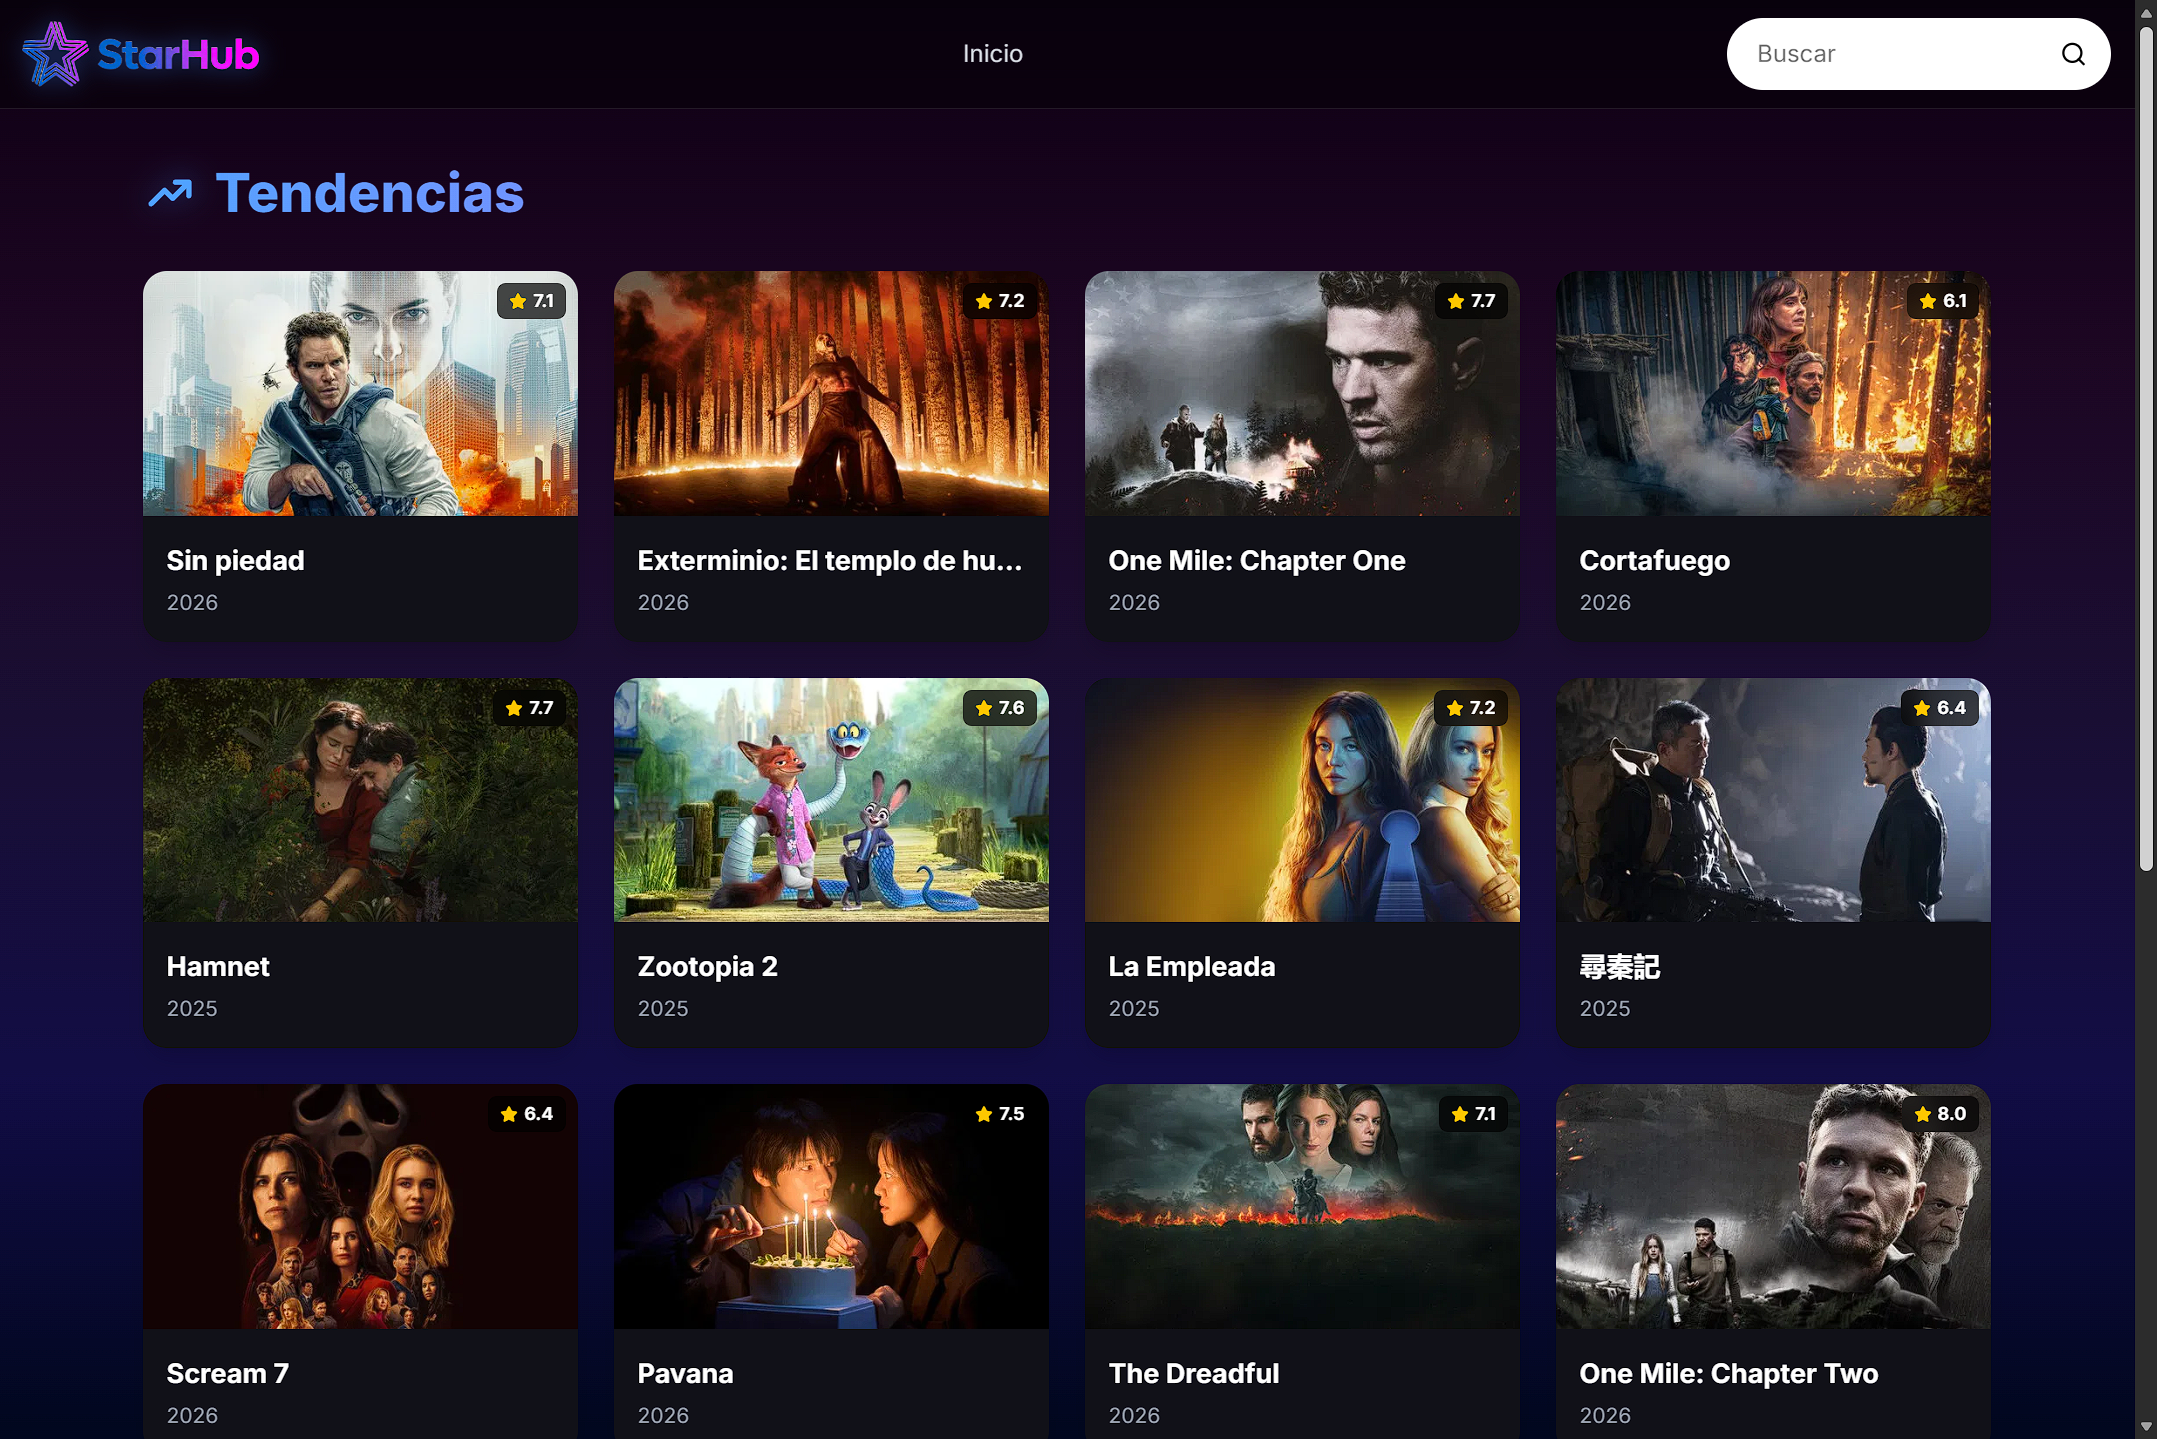
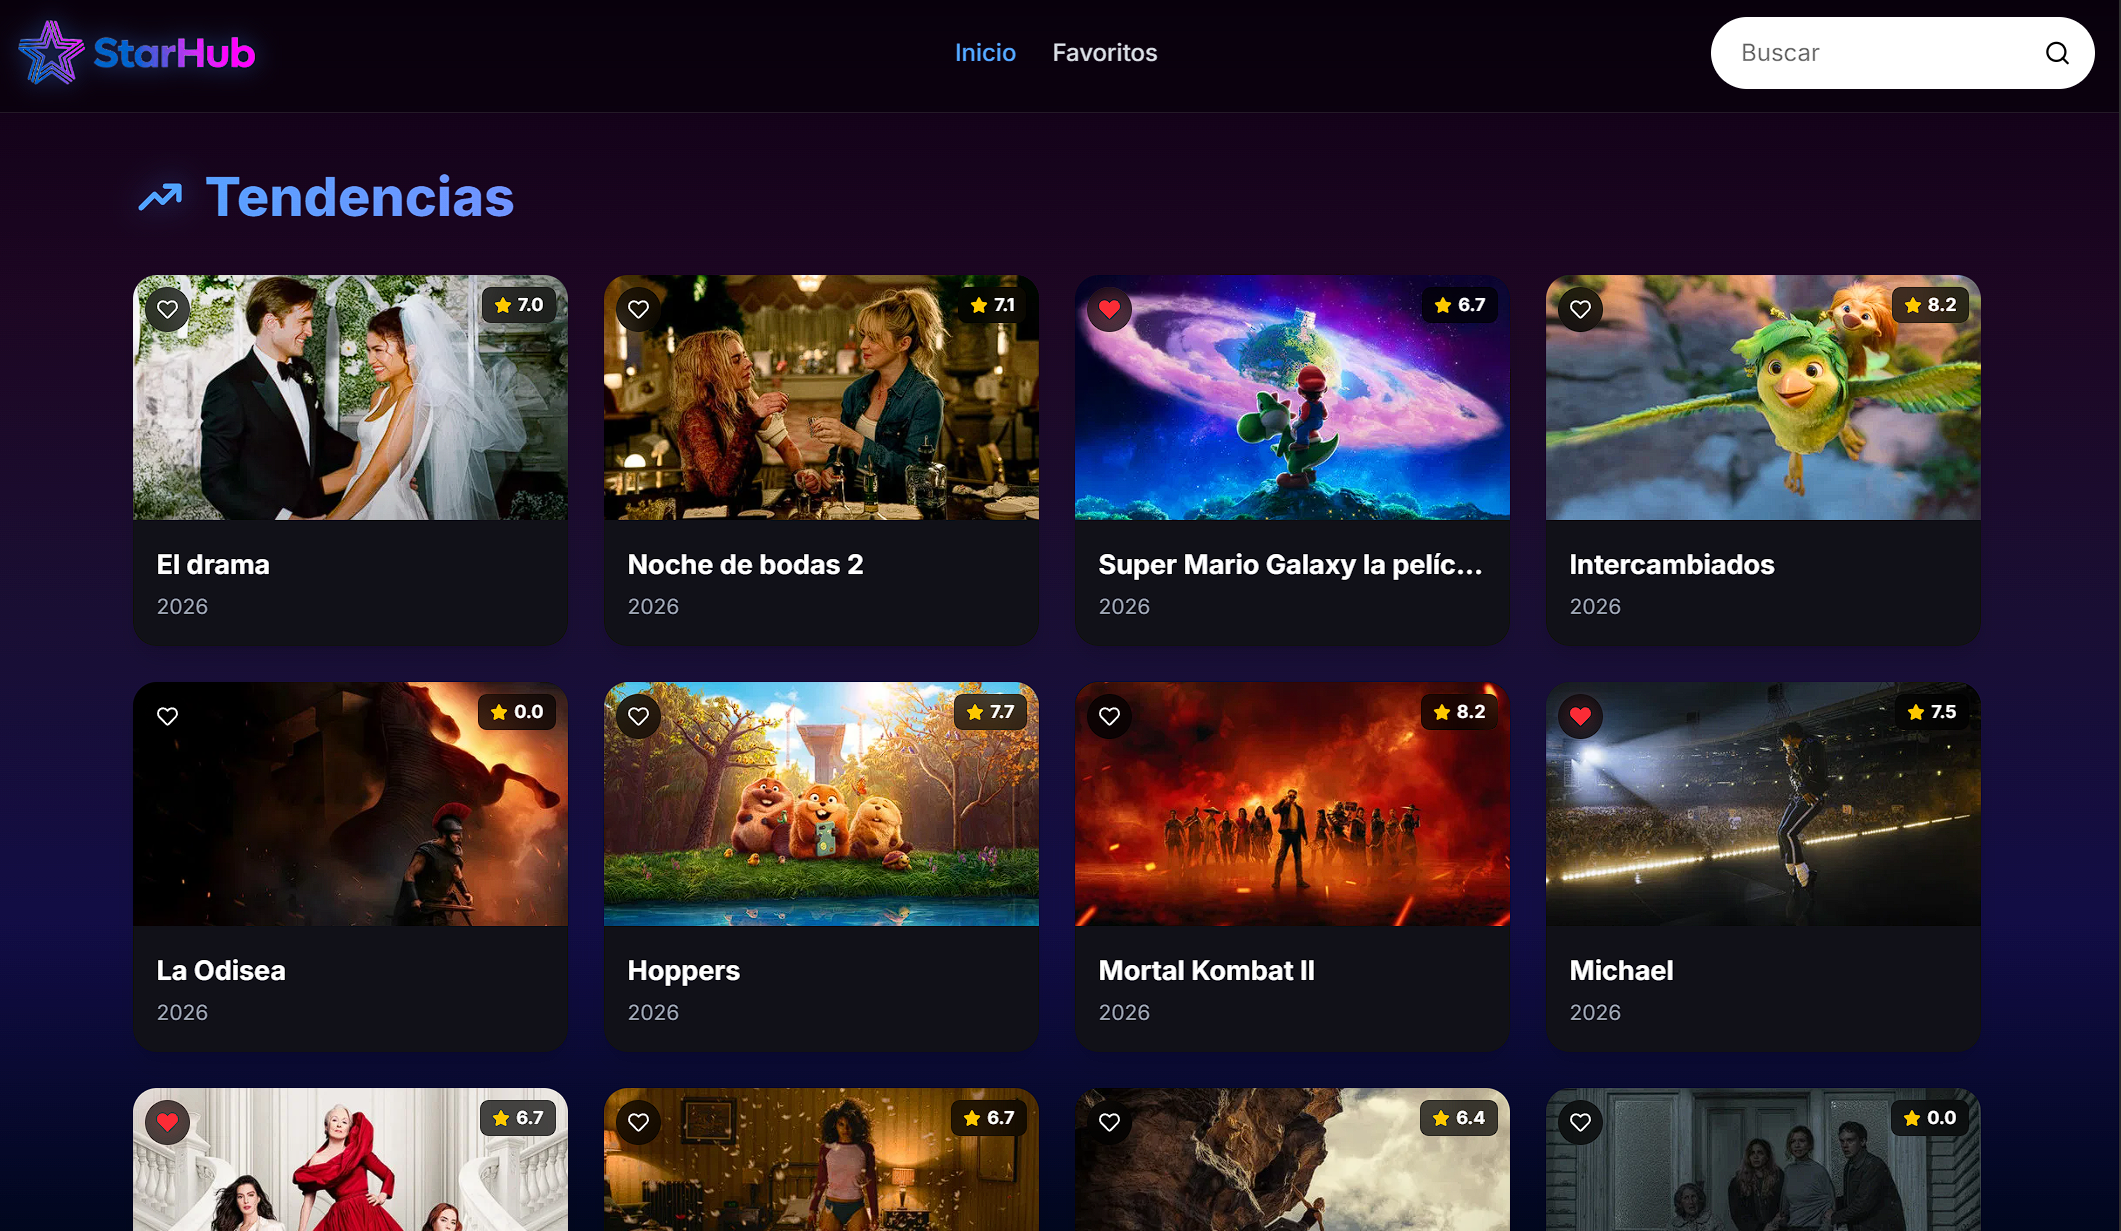
docs: update readme and screenshots por v2.0

diff --git a/README.md b/README.md
@@ -2,24 +2,37 @@
 
 ![StarHub Banner](./screenshots/inicio.png)
 
-StarHub es una Single Page Application (SPA) moderna desarrollada en React que permite descubrir a los usuarios las peliculas en tendencia y buscar sus titulos favoritos. Consume la API oficial de TMDB y destaca por una interfaz de usuario inmersiva con efectos de Glassmorphismo y Parallax.
-
+StarHub es una **Single Page Application (SPA)** moderna y de alto rendimiento desarrollada en React. Esta aplicación permite a los usuarios explorar las últimas tendencias del cine, gestionar una lista personal de favoritos y disfrutar de una experiencia de usuario inmersiva impulsada por la API oficial de TMDB.
 **[Aplicacion en vivo aqui:](https://starhubapp.netlify.app/)**
 
-## Características Principales.
+---
 
-- *Exploración de Tendencias:* Visualiza las peliculas mas populares del momento actualizadas en tiempo real.
-- *Búsqueda Dinámica:* Encuentra películas específicas al instante a través de la barra de busqueda integrada.
-- *Vista de Detalles Inmersiva:* Paginas dinámicas para cada pelicula con sinopsis, calificación, géneros y un fondo con efecto Parallax.
-- *Diseño UI/UX Premium:* Interfaz oscura (Dark Mode) con fondos multicapa, degradados modernos y Navbar con efecto de vidrio esmerilado (Glassmorphism).
-- *Responsive Design:* Perfectamente adaptable a dispositivos móviles, tablets y computadoras de escritorio.
+## Características Principales
+
+### Exploración y Descubrimiento
+- **Tendencias en Tiempo Real:** Visualiza las películas más populares del momento, actualizadas directamente desde TMDB.
+- **Scroll Infinito (Nuevo):** Implementación de la API nativa `Intersection Observer` para cargar más contenido de forma fluida mientras el usuario navega, eliminando la paginación lenta.
+- **Búsqueda Inteligente con Debounce (Nuevo):** Barra de búsqueda optimizada que reduce las peticiones innecesarias a la API, mejorando el rendimiento y la velocidad de respuesta.
+
+### Experiencia de Usuario (UX/UI)
+- **Gestión de Favoritos (Nuevo):** Sistema persistente mediante `LocalStorage` y `Context API`. Guarda tus películas favoritas y accede a ellas incluso después de cerrar el navegador.
+- **Skeleton Loaders (Nuevo):** Pantallas de carga elegantes que eliminan los saltos visuales y mejoran la percepción de velocidad de la aplicación.
+- **Vista de Detalles Inmersiva:** Páginas dinámicas con sinopsis, calificación, géneros y un fondo con efecto **Parallax**.
+- **Diseño Premium:** Interfaz oscura (Dark Mode) con efectos de **Glassmorphism** (vidrio esmerilado) y degradados modernos.
+
+### Optimización
+- **Responsive Design:** Adaptabilidad total desde dispositivos móviles hasta pantallas de escritorio de gran formato.
+- **Rendimiento:** Optimización de renderizado mediante el uso eficiente de Hooks de React.
+
+---
 
 ## Tecnologias Utilizadas.
-- **Frontend:** React 18, Vite.
+- **Núcleo:** React 18, Vite.
+- **Estado Global:** Context API (Gestión de favoritos).
 - **Estilos:** Tailwind CSS v4.
-- **Enrutamiento:** React Router DOM v6.
-- **Iconos:** React Icons.
-- **API:** TMDB (The Movie Database) API.
+- **Navegación:** React Router DOM v6.
+- **Iconografía:** React Icons & Lucide React.
+- **Datos:** TMDB (The Movie Database) API.
 - **Despliegue:** Netlify.
 
 ## Instalación Local
